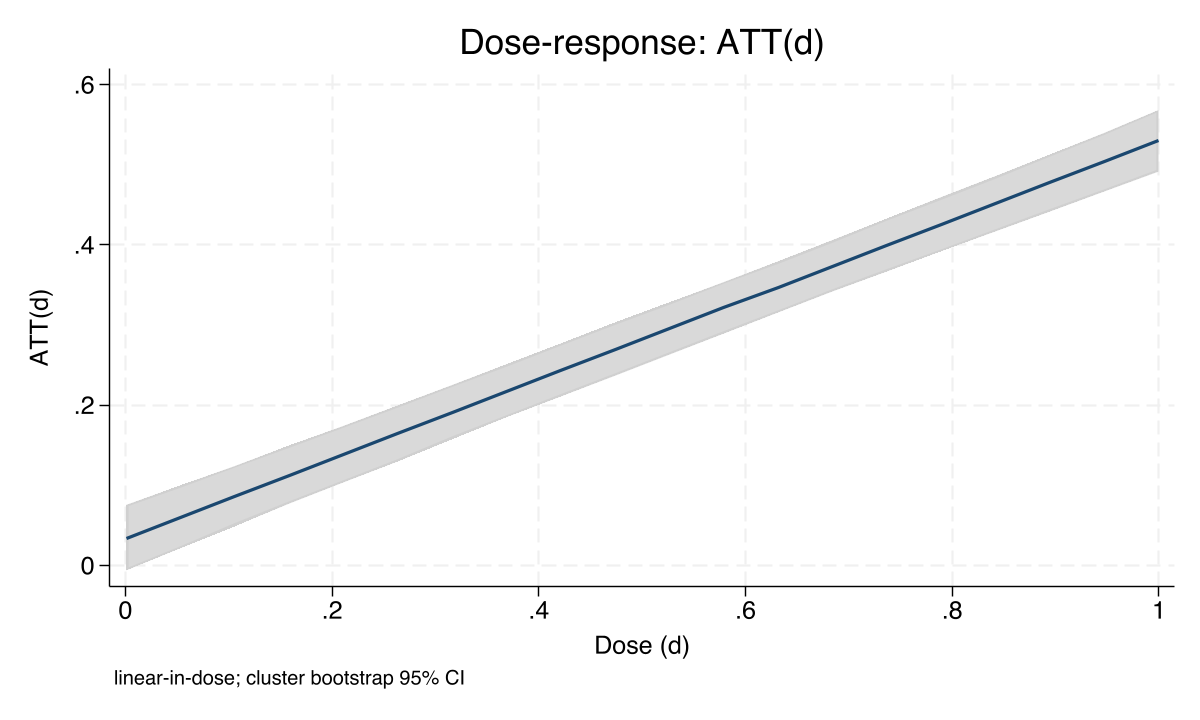
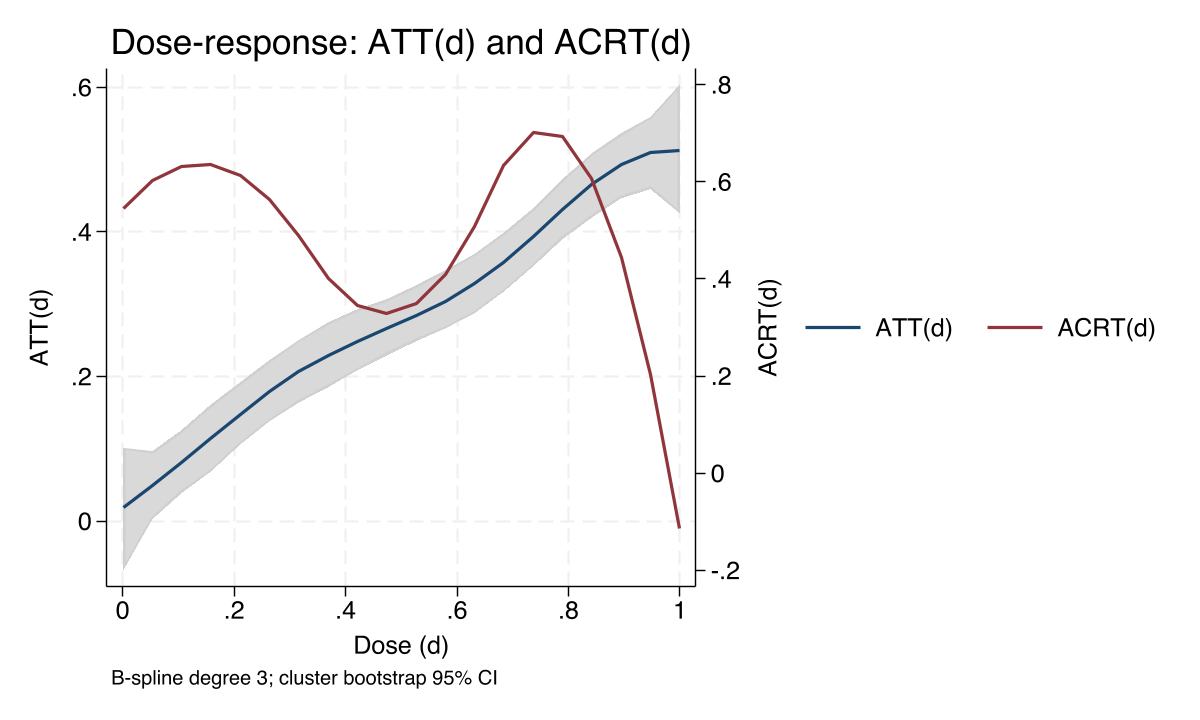
docs: v0.2.0 B样条+ACRT+统一带 文档

diff --git a/README.md b/README.md
@@ -4,7 +4,7 @@
 
 [![Stata 16+](https://img.shields.io/badge/Stata-16%2B-blue.svg)](https://www.stata.com/)
 [![License: AGPL-3.0](https://img.shields.io/badge/License-AGPL--3.0-blue.svg)](LICENSE)
-[![Version: 0.1.0](https://img.shields.io/badge/Version-0.1.0-green.svg)](CHANGELOG.md)
+[![Version: 0.2.0](https://img.shields.io/badge/Version-0.2.0-green.svg)](CHANGELOG.md)
 
 `contdid` implements the **difference-in-differences (DiD) estimator with a continuous
 treatment** of Callaway, Goodman-Bacon & Sant'Anna (2024/2025), filling a gap in the Stata
@@ -14,21 +14,22 @@ ecosystem: the authors' reference implementation (`contdid`) is available only i
 
 In many DiD designs the treatment does not simply "turn on" — it has a *dose* or *intensity*
 (policy generosity, subsidy size, pollution exposure, financial-development index, …).
-`contdid` estimates the **dose-response function** ATT(d): the average treatment effect on the
-treated as a function of the continuous treatment dose.
+`contdid` estimates the **dose-response function** ATT(d) and its derivative, the **average
+causal response** ACRT(d).
 
 Under parallel trends, the dose-specific effect is identified as
 
 > **ATT(d) = E[ΔY | D = d] − E[ΔY | D = 0]**,
 
 where ΔY is the pre-to-post change in the outcome, D is the continuous dose, and D = 0 marks
-untreated units. The current version (v1) estimates this with a **linear-in-dose** specification
-(the default of the reference `contdid` package, `num_knots = 0, degree = 1`) and reports
-pointwise confidence intervals via **cluster bootstrap**.
+untreated units. The dose-response is modeled with a **B-spline** (default: linear), and
+ACRT(d) is the derivative of the fitted curve. Pointwise confidence intervals come from a
+cluster bootstrap, and an optional **uniform confidence band** (`cband`) covers the whole
+curve simultaneously via a multiplier bootstrap.
 
-> **v1 scope:** two-period panel / repeated cross-section, continuous dose, ATT(d) only.
-> Staggered adoption, ACRT (causal-response/slope) parameters, uniform confidence bands and
-> the CCK data-driven sieve estimator are on the roadmap (see [CHANGELOG](CHANGELOG.md)).
+> **Scope:** two-period panel / repeated cross-section, continuous dose, ATT(d) and ACRT(d).
+> Staggered adoption, covariates, and the CCK data-driven sieve estimator are on the roadmap
+> (see [CHANGELOG](CHANGELOG.md)).
 
 ## Installation
 
@@ -44,8 +45,11 @@ Requires Stata 16 or later. No additional dependencies.
 * Load a two-period panel with variables id, t (0/1), y (outcome), d (continuous dose ≥ 0)
 use contdid_sim.dta, clear
 
-* Estimate the dose-response ATT(d) with a plot
+* Linear dose-response (default), with plot
 contdid y, unit(id) time(t) dose(d) npoints(20) reps(999) seed(12345) graph
+
+* Cubic B-spline with 2 interior knots, plus a uniform confidence band
+contdid y, unit(id) time(t) dose(d) degree(3) nknots(2) reps(999) seed(12345) cband graph
 ```
 
 | Option | Default | Description |
@@ -53,29 +57,38 @@ contdid y, unit(id) time(t) dose(d) npoints(20) reps(999) seed(12345) graph
 | `unit(varname)` | — | unit / panel identifier (required) |
 | `time(varname)` | — | time variable, two periods (required) |
 | `dose(varname)` | — | continuous treatment dose, ≥ 0, 0 = untreated (required) |
+| `degree(#)` | 1 | B-spline degree (1 = linear, 2 = quadratic, 3 = cubic) |
+| `nknots(#)` | 0 | number of interior knots (placed at dose quantiles) |
+| `knots(numlist)` | — | explicit interior knots (overrides `nknots`) |
 | `npoints(#)` | 20 | number of evaluation doses |
-| `reps(#)` | 999 | cluster-bootstrap replications |
+| `reps(#)` | 999 | cluster-bootstrap replications (and multiplier draws) |
 | `seed(#)` | 12345 | random seed |
 | `cluster(varname)` | `unit()` | cluster variable for bootstrap |
 | `level(#)` | 95 | confidence level (%) |
-| `graph` | off | plot the dose-response curve with CI band |
+| `cband` | off | uniform confidence band (sup-t, multiplier bootstrap) |
+| `graph` | off | plot ATT(d) and ACRT(d) |
 
 ## Method
 
-- **Estimator** (linear-in-dose): fit ΔY = a + b·D by OLS on treated units (D > 0), then
-  ATT(d) = (a + b·d) − mean(ΔY | D = 0). This matches the reference `contdid` default.
-- **Inference**: cluster bootstrap (default cluster = unit), percentile pointwise confidence
+- **Estimator**: fit ΔY on a B-spline basis of the dose (OLS, treated units), then
+  ATT(d) = fitted(d) − mean(ΔY | D = 0). ACRT(d) is the derivative of the fitted curve.
+  With `degree(1)` and `nknots(0)` this reduces to the linear-in-dose estimator of v0.1.0.
+- **Pointwise inference**: cluster bootstrap (default cluster = unit), percentile confidence
   intervals.
-- **Interpretation caveat**: ATT(d) is the *local* effect for dose group d. The *global*
-  dose-response ATT(d) requires the stronger "strong parallel trends" assumption; average
-  causal responses (ACRT) are not yet implemented. See the paper for details.
+- **Uniform inference** (`cband`): influence-function-based multiplier bootstrap (sup-t) gives
+  a band that covers the whole dose-response curve simultaneously.
+- **Interpretation caveat**: ATT(d) is the *local* effect for dose group d; the *global*
+  dose-response requires the stronger "strong parallel trends" assumption. ACRT(d) is a
+  derivative and is estimated with less precision than ATT(d). See the paper for details.
 
 ## Reproducibility
 
 - `examples/contdid_simdata.do` — generates the simulated dataset (`data/contdid_sim.dta`)
   whose true dose-response is ATT(d) = 0.5·d.
 - `examples/contdid_example.do` — one-click example.
-- `examples/reference/run_contdid_check.R` — independent base-R reimplementation of the same
+- `examples/reference/dump_splines2.R` — dumps R `splines2` B-spline basis/derivative as the
+  golden reference for the Mata implementation.
+- `examples/reference/run_contdid_check.R` — independent base-R reimplementation of the linear
   estimator; matches the Stata output to 6 decimals.
 
 ## Citation
@@ -99,7 +112,7 @@ Software:
   title   = {contdid: Difference-in-Differences with a Continuous Treatment for Stata},
   author  = {Haoyu Niu},
   year    = {2026},
-  version = {0.1.0},
+  version = {0.2.0},
   url     = {https://github.com/niuniuhaoyu/contdid}
 }
 ```

diff --git a/CHANGELOG.md b/CHANGELOG.md
@@ -2,6 +2,14 @@
 
 All notable changes to this project will be documented in this file.
 
+## [0.2.0] - 2026-09-29
+
+### Added
+- B-spline dose-response modeling (`degree()`, `knots()`, `nknots()` options); default `degree(1)` preserves v0.1.0 behavior.
+- ACRT(d) — average causal response (derivative of ATT(d)), returned as `r(acrt)`.
+- Uniform confidence band (`cband` option) via influence-function multiplier bootstrap (sup-t).
+- Mata B-spline basis/derivative (Cox-de Boor), verified against R `splines2`.
+
 ## [0.1.0] - 2026-09-29
 
 ### Added
